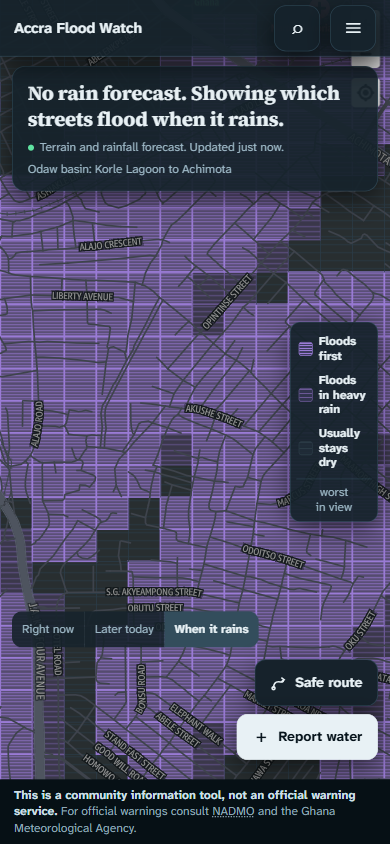
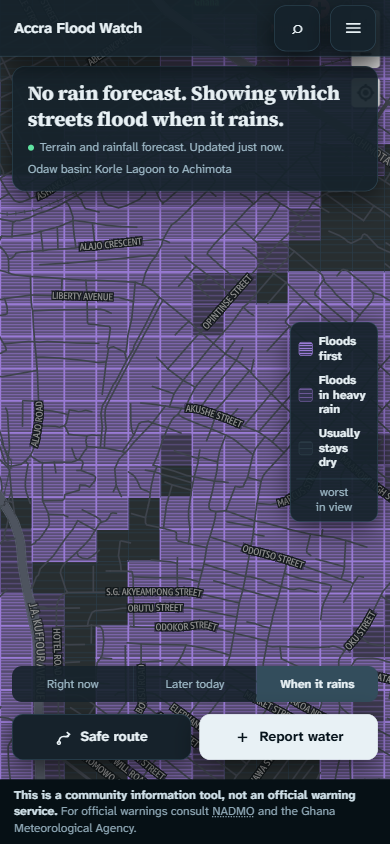
Group the bottom controls, and make search reachable by thumb

Changed region(s): [[0.0, 0.7085, 1.0, 0.9858]]

diff --git a/web/src/styles.css b/web/src/styles.css
@@ -237,27 +237,47 @@ body {
 }
 
 /*
- * The segments sit ABOVE the dock rather than beside it. Measured at 390x844:
- * the three toggles come to 247px and the dock to 141px, which is 388px of
- * content for 366px of room -- they overlapped by 22px on the first real
- * render. The dock keeps the lower band because it is the half of this pair
- * that gets pressed, under time pressure, with a wet thumb.
+ * The segments and the dock are one block at the bottom of the screen: two
+ * equal buttons in a row, and the three view toggles directly above them
+ * spanning exactly the same width. Both stretch edge to edge between the 12px
+ * margins, so the column of thumb targets has one left edge and one right edge
+ * rather than four.
  *
- * 113px is the dock's own height plus a 12px gap.
+ * 58px is the dock's own height plus an 11px gap.
  */
 .ov-seg {
   left: 12px;
-  bottom: calc(var(--legal-reserve) + 113px);
+  right: 12px;
+  bottom: calc(var(--legal-reserve) + 58px);
   display: flex;
 }
 
 .ov-dock {
+  left: 12px;
   right: 12px;
   bottom: var(--legal-reserve);
   display: flex;
-  flex-direction: column;
+  flex-direction: row;
   gap: 8px;
-  align-items: flex-end;
+  align-items: stretch;
+}
+
+/* Equal halves. Neither action is the junior one: reporting is the thing only
+   this person can do, routing is the thing they came for. */
+.ov-dock .btn {
+  flex: 1;
+  justify-content: center;
+}
+
+/* The toggle group spans the dock beneath it, and the three segments split it
+   evenly -- "When it rains" is the longest at ~89px and clears a 122px third. */
+.ov-seg .view-toggle {
+  width: 100%;
+}
+
+.ov-seg .seg {
+  flex: 1;
+  text-align: center;
 }
 
 .ov-legal {
@@ -329,23 +349,32 @@ body {
  * of the input, and collapsing the bar at that moment moves the list out from
  * under a descending thumb.
  */
-.navbar:has(.search:focus-within) .navbar__name,
-.navbar:has(.search__results:not([hidden])) .navbar__name {
-  display: none;
-}
+/*
+ * Scoped to phone widths. Unscoped, these fired on a 1440px desktop too: the
+ * field took `flex: 1` of a 1440px bar and stretched right across the window
+ * for a search box, which is absurd at that size and was reported as a bug.
+ * On desktop the bar has room for everything at once, so nothing has to give
+ * way and the field keeps a fixed, sane width.
+ */
+@media (max-width: 899px) {
+  .navbar:has(.search:focus-within) .navbar__name,
+  .navbar:has(.search__results:not([hidden])) .navbar__name {
+    display: none;
+  }
 
-/* Hidden, not merely covered. A control that is off screen must not still be
-   reachable by Tab. */
-.navbar:has(.search:focus-within) .navbar__controls,
-.navbar:has(.search__results:not([hidden])) .navbar__controls,
-.navbar:has(.search:focus-within) .tool.navbar__burger,
-.navbar:has(.search__results:not([hidden])) .tool.navbar__burger {
-  display: none;
-}
+  /* Hidden, not merely covered. A control that is off screen must not still be
+     reachable by Tab. */
+  .navbar:has(.search:focus-within) .navbar__controls,
+  .navbar:has(.search__results:not([hidden])) .navbar__controls,
+  .navbar:has(.search:focus-within) .tool.navbar__burger,
+  .navbar:has(.search__results:not([hidden])) .tool.navbar__burger {
+    display: none;
+  }
 
-.navbar:has(.search:focus-within) .search,
-.navbar:has(.search__results:not([hidden])) .search {
-  flex: 1;
+  .navbar:has(.search:focus-within) .search,
+  .navbar:has(.search__results:not([hidden])) .search {
+    flex: 1;
+  }
 }
 
 /* ---------------------------------------------------------- navbar: narrow */
@@ -1463,23 +1492,26 @@ body {
    Deliberately one breakpoint and no more -- the phone is the case that
    matters. */
 @media (min-width: 900px) {
+  /*
+   * A flex column, not a grid.
+   *
+   * The grid packed its rows at the top and left ~270px of dead space under
+   * the sidebar, with the disclaimer -- the one line that may never be missed
+   * -- floating in the middle of it. A column lets `margin-top: auto` on the
+   * legal push it to the foot, which is where a footer belongs and where the
+   * eye looks for it.
+   */
   .stage {
-    display: grid;
-    grid-template-columns: 344px 1fr;
-    /* Pack the sidebar at the top. Without this the auto rows share the
-       leftover height between them and the cards drift apart down a 900px
-       window. */
-    align-content: start;
-    row-gap: 14px;
+    display: flex;
+    flex-direction: column;
+    gap: 14px;
   }
 
   /*
-   * The map stays absolutely positioned rather than becoming a grid item.
-   * `grid-column: 2; grid-row: 1 / -1` looks like the obvious way to make it
-   * span the sidebar, and it does not work: `-1` counts only EXPLICIT row
-   * tracks, and this grid declares none, so the map spanned row one and
-   * rendered 151px tall beside a 730px sidebar. An absolutely positioned
-   * child is not a grid item at all, so there is no row to be trapped in.
+   * The map stays absolutely positioned rather than joining the flow. As a
+   * grid item it was trapped in row one and rendered 151px tall; as a flex
+   * item it would sit under the sidebar. Out of flow it simply fills the
+   * window to the right of the column, below the bar.
    */
   .map {
     inset: var(--nav-h) 0 0 344px;
@@ -1489,43 +1521,65 @@ body {
   .rail {
     position: static;
     transform: none;
-    grid-column: 1;
-    width: auto;
+    width: 300px;
+    margin-inline: 22px;
     box-shadow: none;
   }
 
-  /* Re-asserted AFTER the rule above, which would otherwise drop the bar into
-     the sidebar column as a grid item. It spans the full width at every size:
-     it is the app's title bar, not part of the sidebar. */
+  /* Re-asserted AFTER the rule above, which would otherwise size the bar to
+     the sidebar column. It spans the window at every width: it is the app's
+     title bar, not part of the sidebar. */
   .ov-nav {
     position: absolute;
     top: 0;
     left: 0;
     right: 0;
+    width: auto;
+    margin: 0;
     box-shadow: var(--lift);
-  }
-
-  /* `margin-inline`, not `margin: 0 22px` -- the shorthand would reset the
-     top and bottom margins that give the column its ends, and it sits above
-     them in source order.
-     `:not(.ov-nav)` because the bar is not part of the sidebar: it spans the
-     window, and this margin inset it by 22px at each end. */
-  .stage > .ov:not(.ov-nav),
-  .stage > .rail {
-    grid-column: 1;
-    margin-inline: 22px;
   }
 
   /* Clears the bar. Deliberately a margin and NOT `padding-top` on .stage:
      absolutely positioned children resolve against their containing block's
-     PADDING box, so padding the stage would push the navbar down along with
-     everything else. */
+     PADDING box, so padding the stage would push the navbar and the map down
+     along with everything else. */
   .ov-read {
     margin-top: calc(var(--nav-h) + 18px);
   }
 
-  /* The bar has room for everything inline, so the sidebar never holds the
-     controls and the hamburger stays away. */
+  /* Stacked, not side by side. Two buttons in a 300px column come to 146px
+     each, which "Report water" does not clear at 14px bold with its icon.
+     Full width keeps them the same size as each other, which is the point. */
+  .ov-dock {
+    position: static;
+    flex-direction: column;
+    gap: 10px;
+  }
+
+  .ov-dock .btn {
+    width: 100%;
+  }
+
+  /* The slack is taken HERE, above the segments, so the whole control
+     cluster -- toggles, dock, disclaimer -- sits at the foot of the column
+     in the same order it sits at the foot of a phone screen. Putting the
+     auto margin on the legal alone left a 270px hole directly above the one
+     line that may never be missed, which is the worst place to put a hole. */
+  .ov-seg {
+    margin-top: auto;
+  }
+
+  .ov-legal {
+    margin-bottom: 18px;
+  }
+
+  /* The bar has room for everything inline, so the field neither expands nor
+     displaces anything -- it just sits there at a readable width. */
+  .search {
+    width: 260px;
+    flex: none;
+  }
+
   .search__field,
   .search__field:focus-within {
     width: 100%;
@@ -1535,8 +1589,12 @@ body {
     opacity: 1;
   }
 
-  .ov-legal {
-    margin-bottom: 18px;
+  /* Anchored under the field rather than spanning the bar: a results list the
+     width of a 1440px window is a list nobody can scan. */
+  .search__results {
+    left: auto;
+    right: 14px;
+    width: 420px;
   }
 }
 

diff --git a/web/src/shell.test.ts b/web/src/shell.test.ts
@@ -166,6 +166,20 @@ describe("shell DOM contract", () => {
     );
   });
 
+  it("keeps the search icon a label bound to the input", () => {
+    // Collapsed, the icon IS the whole 46px field -- the input beside it is
+    // squeezed to 4px and clipped by `overflow: hidden`. As a <span> it
+    // swallowed every tap and search was simply unusable by touch on a phone.
+    // A <label for> focuses its control, which is the whole fix.
+    const scope = scopeOf('class="search__field"', "</div>");
+    assert.match(
+      scope,
+      /<label class="search__icon" for="search-input"/,
+      "the search icon must be a <label for=\"search-input\">, not a span -- " +
+        "collapsed it covers the entire field and a span cannot take focus",
+    );
+  });
+
   it("keeps the disclaimer pointing at NADMO and GMet", () => {
     // Scoped to the element, not the file: matching anywhere would still pass
     // if this text survived only in a comment. It is a safety requirement.

diff --git a/web/index.html b/web/index.html
@@ -44,7 +44,12 @@
           <form id="search" class="search" role="search" autocomplete="off">
             <label class="search__label" for="search-input">Search for a place</label>
             <div class="search__field">
-              <span class="search__icon" aria-hidden="true">⌕</span>
+              <!-- A LABEL, not a span. Collapsed, this icon is the whole 46px
+                   of the field: the input beside it is squeezed to 4px and
+                   clipped, so a tap landed on a span and nothing happened --
+                   search was unusable by touch. A label focuses its control,
+                   which is the behaviour this needs, with no JS. -->
+              <label class="search__icon" for="search-input" aria-hidden="true">⌕</label>
               <input
                 id="search-input"
                 class="search__input"

diff --git a/docs/superpowers/specs/2026-09-24-navbar-design.md b/docs/superpowers/specs/2026-09-24-navbar-design.md
@@ -223,3 +223,49 @@ Three things that only showed up in a real browser:
   `t("language.draft")` string, because the actionable half of it is "warnings
   are most reliable in English". It takes the reading card to 249px in a draft
   locale, which was measured against the rail at 329px and leaves 80px clear.
+
+---
+
+## Amendment, same day: bottom cluster, and two search bugs
+
+### Search was unusable by touch
+
+Collapsed, `.search__field` is 46px and `.search__icon` occupies all 46px of
+it; the input beside it is squeezed to **4px** and clipped by
+`overflow: hidden`. A tap therefore landed on a `<span>`, which cannot take
+focus, so the field never expanded. Measured with `elementFromPoint` at the
+centre of the field: the hit target was `SPAN.search__icon`.
+
+This had been true since the overlay-geometry task. Every check until now
+focused the input programmatically, which is precisely the one way a user
+cannot. The icon is now a `<label for="search-input">` — a label focuses its
+control, no JS — and `shell.test.ts` fails if it reverts to a span.
+
+### Search stretched across the desktop
+
+`.navbar:has(.search:focus-within) .search { flex: 1 }` and the rules hiding
+the name and controls were unscoped, so on a 1440px window focusing the field
+stretched it across the whole bar. They now live in `@media (max-width: 899px)`.
+Above that the bar has room for everything at once, so nothing has to give way:
+the field is a fixed 260px, and the results panel is 420px anchored under it
+rather than spanning the window.
+
+### The bottom cluster
+
+On phones the dock is a **row** of two equal halves (179px each at 390px), with
+the three view toggles directly above it spanning the same 366px in equal
+thirds. One left edge and one right edge for the whole cluster instead of four.
+`.ov-seg`'s offset is `calc(var(--legal-reserve) + 58px)` — the dock's height
+plus a gap.
+
+On desktop the sidebar became a **flex column** rather than a grid. The grid
+packed its rows at the top and left ~270px of dead space beneath, so
+`margin-top: auto` on `.ov-seg` now takes the slack and pushes the toggles, the
+dock and the disclaimer to the foot of the column — the same order they appear
+in at the bottom of a phone. The dock stacks there rather than sitting side by
+side: two buttons in a 300px column are 146px each, which "Report water" does
+not clear at 14px bold with its icon. Both are full width, so they are the same
+size as each other, which was the point.
+
+Measured at 1440×900: reading card 74–225, rail 239–368, toggles 635–671, dock
+685–787, disclaimer 801–882 with an 18px foot.
